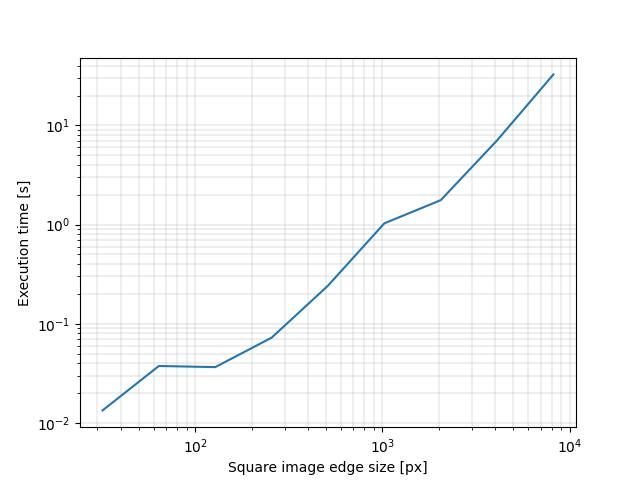
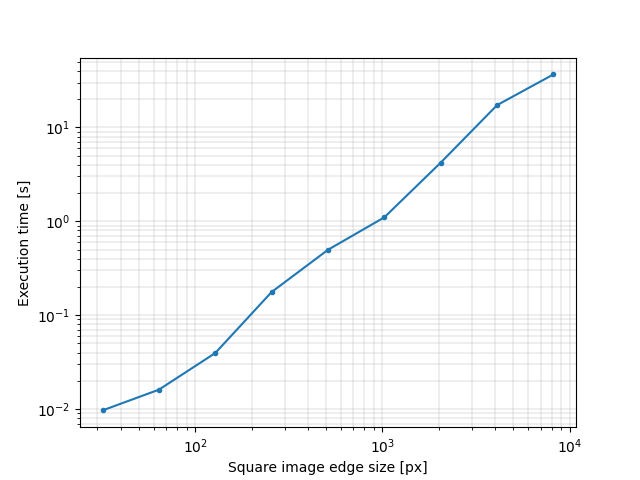
Feature: timing averaging (#3)
* Mandelbrot generation: timing averaging

* Plotting: minor change to style

* New results (after averaging)

diff --git a/Lab1/src/Mandelbrot.java b/Lab1/src/Mandelbrot.java
@@ -65,6 +65,7 @@ public class Mandelbrot {
 
     private static JFrame frame;
     private static JLabel label;
+
     public static void display(BufferedImage image){
         if(frame==null){
             frame=new JFrame();
@@ -93,35 +94,50 @@ public class Mandelbrot {
         }
         return i;
     }
-    public static void main(String[] args) throws IOException {
 
-        int[] dims = {32, 64, 128, 256, 512, 1024, 2048, 4096, 8192};
+    public static double arrayMean(double[] doubleArray) {
+        double sum = 0.0;
+        for (double d : doubleArray) {
+            sum += d;
+        }
+        return sum/(double)doubleArray.length;
+    }
 
-        double xLimLeft = -2.1;
-        double xLimRight = 0.6;
-        double yLimLeft = -1.2;
-        double yLimRight = 1.2;
+    // domain limits
+    public static double xLimLeft = -2.1;
+    public static double xLimRight = 0.6;
+    public static double yLimLeft = -1.2;
+    public static double yLimRight = 1.2;
 
-        BufferedWriter writer = new BufferedWriter(new FileWriter("./timings.csv", true));
+    // rendering params
+    public static int maxIterations = 200;
+    public static double threshold = 2.0;
 
-        BufferedImage mandelbrotBufferedImage = null;
+    //
+    public static BufferedImage mandelbrotBufferedImage = null;
 
-        int maxIterations = 200;
+    public static double mandelbrotReruns(int resolution, int rerunsNumber) {
+        double[] timings = new double[rerunsNumber];
+        if(mandelbrotBufferedImage == null) {
+            mandelbrotBufferedImage = new BufferedImage(
+                resolution, 
+                resolution, 
+                BufferedImage.TYPE_INT_ARGB
+            );
+        } else {
+            resolution = mandelbrotBufferedImage.getWidth();
+        }
+        double dx = (xLimRight-xLimLeft)/resolution;
+        double dy = (yLimRight-yLimLeft)/resolution;
 
-        for (int dim : dims) {
-            double dx = (xLimRight-xLimLeft)/dim;
-            double dy = (yLimRight-yLimLeft)/dim;
-
-            mandelbrotBufferedImage = new BufferedImage(dim, dim, BufferedImage.TYPE_INT_ARGB);
-
+        for (int i = 0; i < rerunsNumber; i++) {
             long start = System.nanoTime();
-
-            for(int n=0; n<dim; ++n) {
-                for(int m=0; m<dim; ++m) {
+            for(int n=0; n<resolution; ++n) {
+                for(int m=0; m<resolution; ++m) {
                     int breakpoint = calcMandelbrot(
                         new Complex(0, 0), 
                         new Complex(xLimLeft + dx*m, yLimLeft + dy*n),
-                        maxIterations, 2.0
+                        maxIterations, threshold
                     );
                     double hue = Math.pow(breakpoint, 1./3.)/Math.pow(maxIterations, 1./3.);
                     float brightness = 1.0f;
@@ -131,7 +147,23 @@ public class Mandelbrot {
                     mandelbrotBufferedImage.setRGB(m, n, color.getRGB());
                 }
             }
-            writer.write(dim+","+(System.nanoTime()-start)/1000000000.0+"\n");
+            long stop = System.nanoTime();
+            timings[i] = (double)(stop-start)/1000000000.0;
+        }
+        return arrayMean(timings);
+    }
+    public static void main(String[] args) throws IOException {
+
+        int[] dims = {32, 64, 128, 256, 512, 1024, 2048, 4096, 8192};
+
+        int rerunsNumber = 10;
+
+        BufferedWriter writer = new BufferedWriter(new FileWriter("./timings.csv", false));
+        for (int dim : dims) {
+            mandelbrotBufferedImage = new BufferedImage(dim, dim, BufferedImage.TYPE_INT_ARGB);
+            double timeResult = mandelbrotReruns(dim, rerunsNumber);
+            writer.write(dim+","+timeResult+"\n");
+            writer.flush();
         }
         writer.close();
         display(mandelbrotBufferedImage);

diff --git a/Lab1/misc/plot.py b/Lab1/misc/plot.py
@@ -9,7 +9,7 @@ with open("./timings.csv", "r") as ifile:
             break   
         fields = line.split(",")
         results[int(fields[0])] = float(fields[1][:-1])
-plt.plot(results.keys(), results.values())
+plt.plot(results.keys(), results.values(), ".-")
 
 plt.xscale('log')
 plt.yscale('log')
